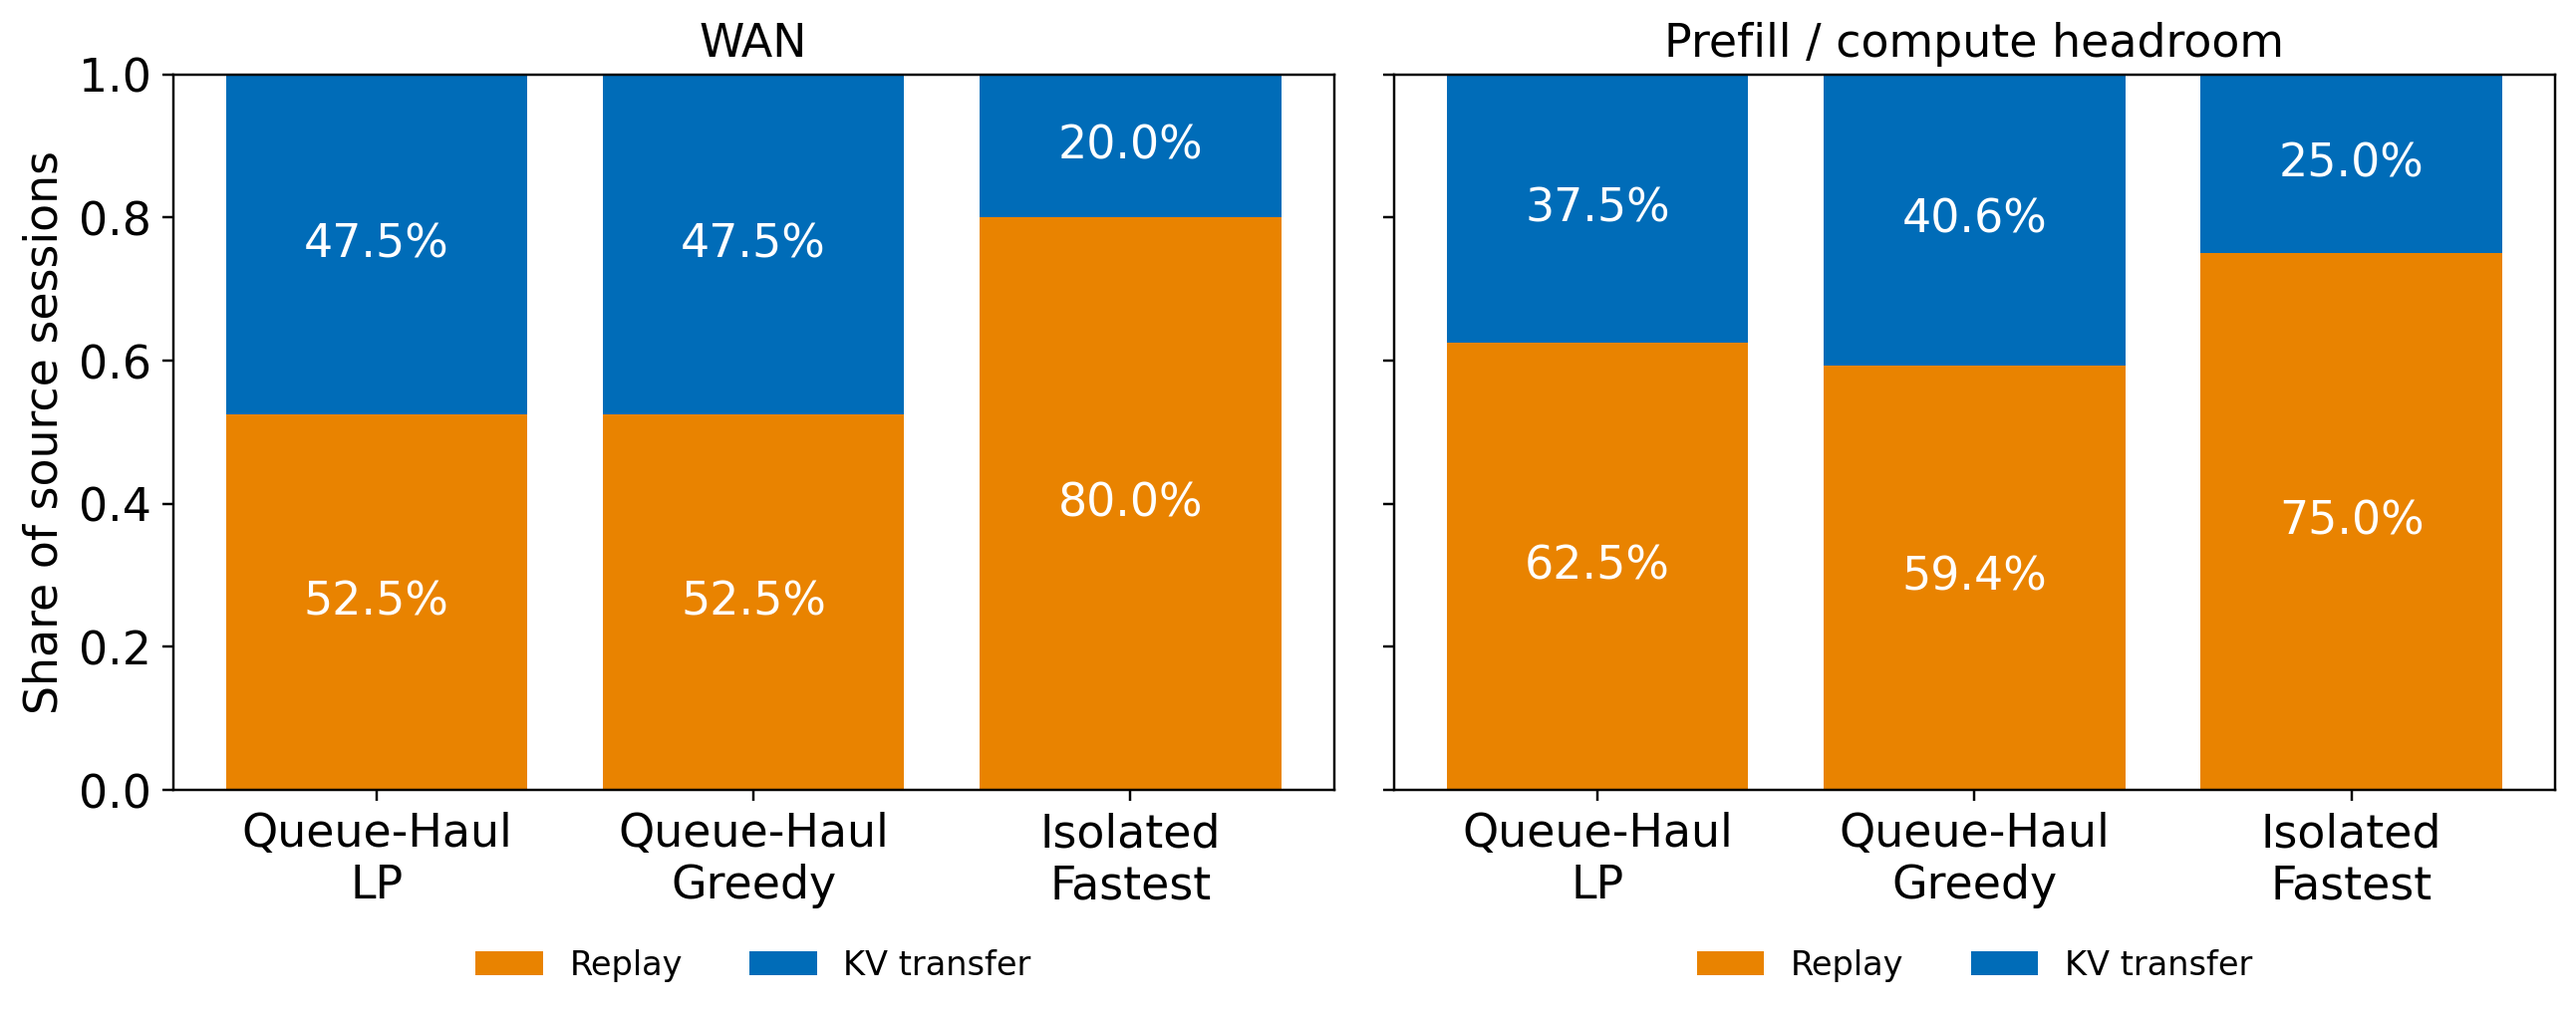
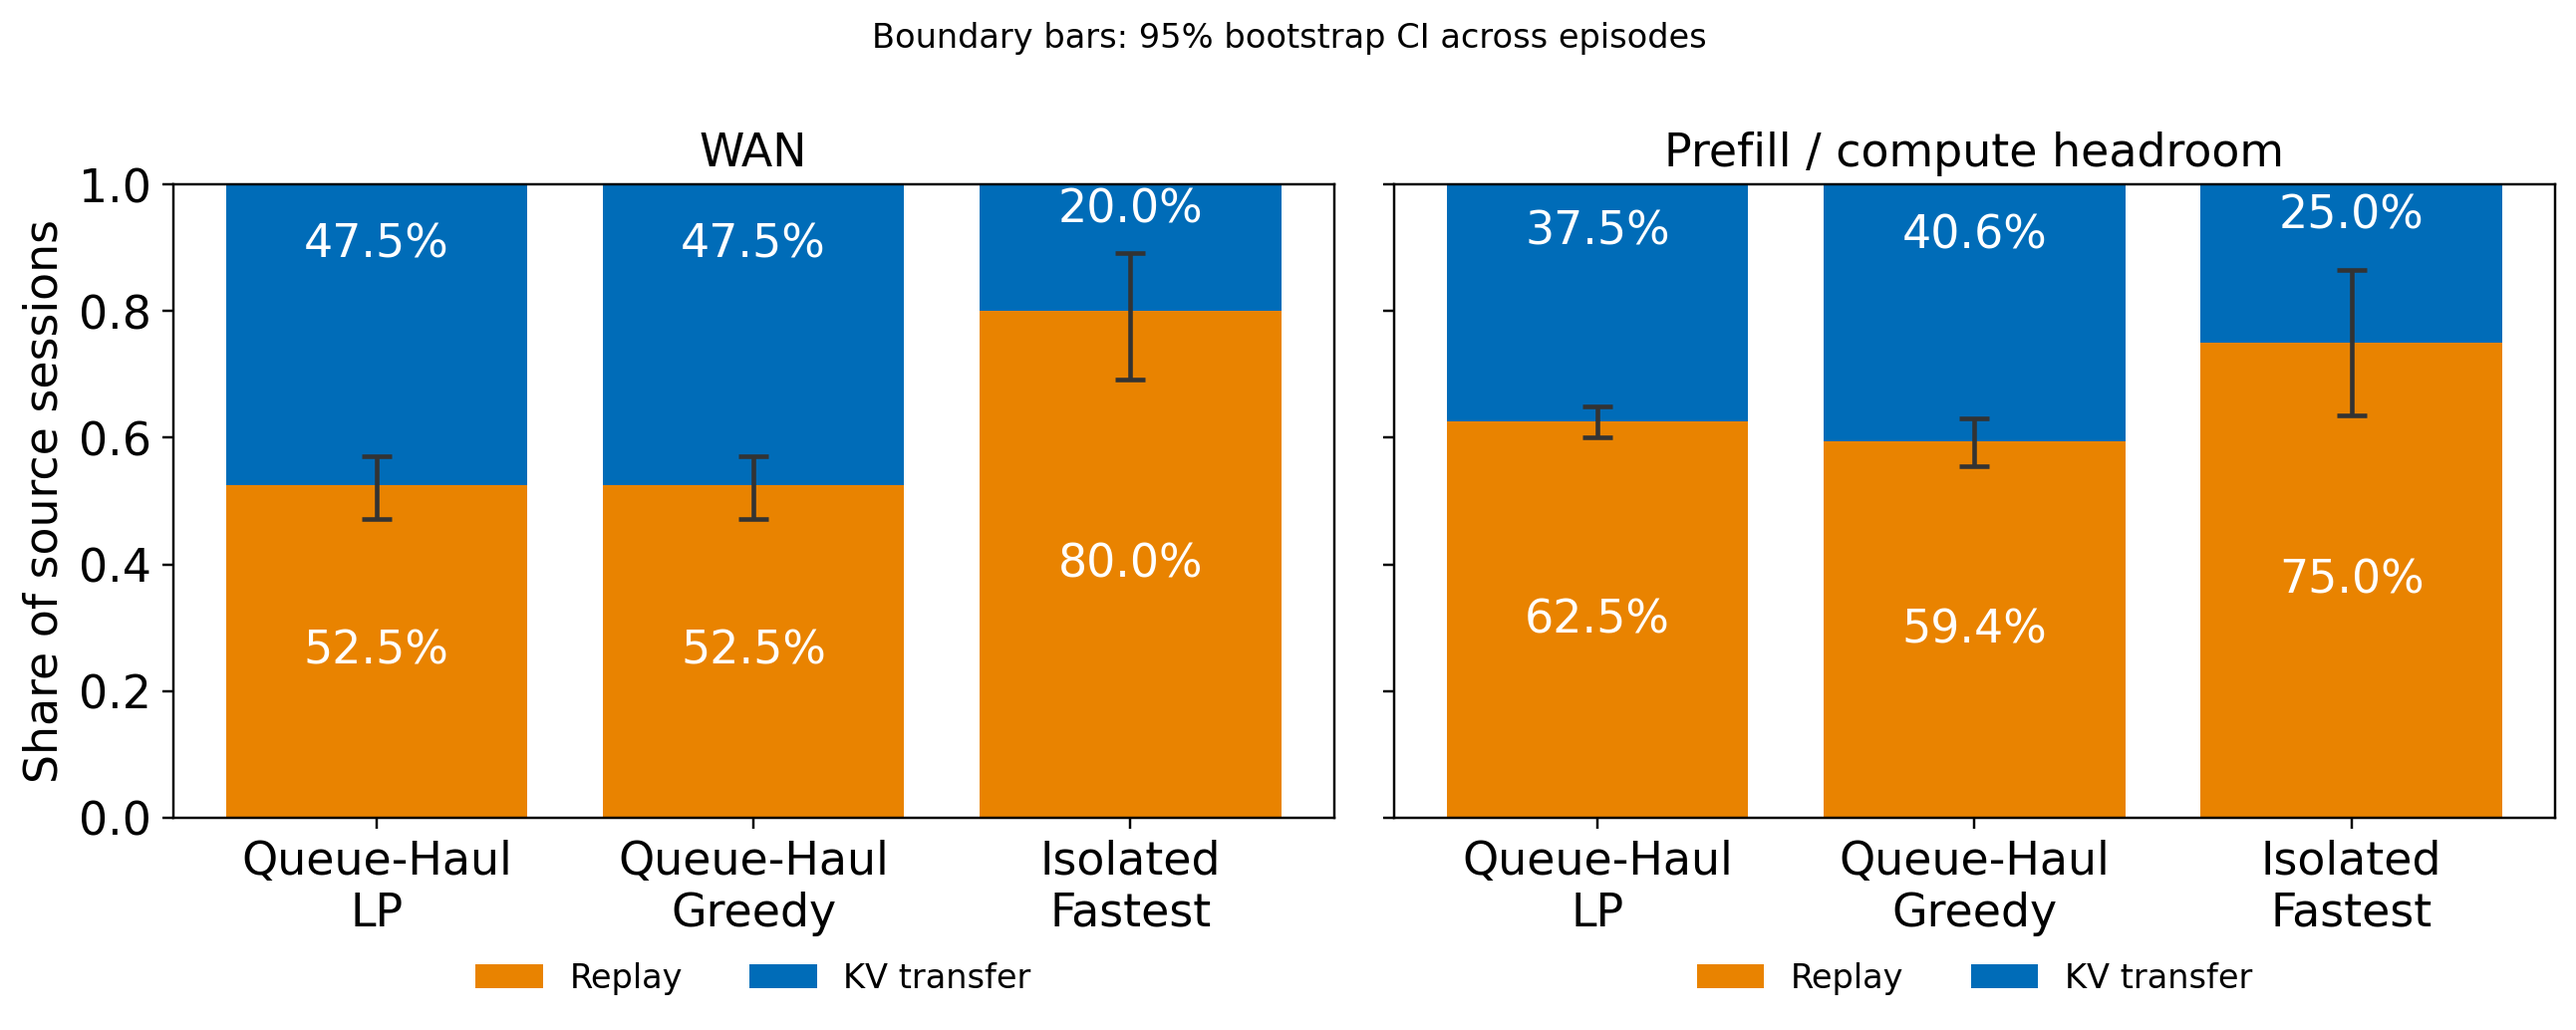
Add episode bootstrap confidence bars to action mix boundaries

diff --git a/agent-migrate/queue-haul/plot_wan_prefill_results.py b/agent-migrate/queue-haul/plot_wan_prefill_results.py
@@ -44,6 +44,15 @@ def pooled(rows, campaign, policy):
     return np.r_[0, sorted(events)], np.arange(len(events) + 1) / len(episodes), counts, total
 
 
+def replay_interval(rows, campaign, policy):
+    shares = np.array([sum(d["action"] == "replay" for d in json.loads(r["decisions"])) / 8
+                       for r in rows if r["campaign"] == campaign and r["policy"] == policy])
+    if len(shares) < 2:
+        raise ValueError("replay confidence interval needs at least two episodes")
+    means = np.random.default_rng(0).choice(shares, (10000, len(shares))).mean(axis=1)
+    return np.quantile(means, [.025, .975])
+
+
 def save(fig, out):
     fig.tight_layout()
     for suffix in ("png", "pdf"):
@@ -95,12 +104,17 @@ def plot(source, out):
                    color=plot_style.ACTION_COLORS[action])
             for i, share in enumerate(shares):
                 if share:
-                    ax.text(i, bottom[i] + share / 2, f"{share:.1%}", ha="center", va="center", color="white")
+                    ax.text(i, bottom[i] + share * (.8 if action == "kv_transfer" else .5), f"{share:.1%}", ha="center", va="center", color="white")
             bottom += shares
+        boundaries = np.array([groups[campaign, p][2]["replay"] / groups[campaign, p][3] for p in policies])
+        intervals = np.array([replay_interval(rows, campaign, p) for p in policies]).T
+        ax.errorbar(range(3), boundaries, yerr=np.vstack((boundaries - intervals[0], intervals[1] - boundaries)),
+                    fmt="none", ecolor="#333333", elinewidth=1.5, capsize=5, capthick=1.5)
         ax.set(xticks=range(3), xticklabels=["\n".join(plot_style.POLICY_NAMES[STYLE_IDS[p]].rsplit(" ", 1))
                                            for p in policies], ylim=(0, 1), title=title)
         ax.legend(loc="upper center", bbox_to_anchor=(.5, -.18), ncol=3, frameon=False)
     axes[0].set_ylabel("Share of source sessions")
+    fig.suptitle("Boundary bars: 95% bootstrap CI across episodes", fontsize=plot_style.LEGEND_FONT_SIZE)
     save(fig, out / "pooled_action_mix")
     with (out / "pooled_summary.csv").open("w") as stream:
         writer = csv.DictWriter(stream, fieldnames=summaries[0], lineterminator="\n")

diff --git a/agent-migrate/queue-haul/tests/test_wan_prefill_results.py b/agent-migrate/queue-haul/tests/test_wan_prefill_results.py
@@ -3,7 +3,7 @@ import json
 import numpy as np
 import pytest
 
-from plot_wan_prefill_results import pooled
+from plot_wan_prefill_results import pooled, replay_interval
 
 
 def test_episode_ecdf_uses_last_completion_and_retains_incomplete_episodes():
@@ -20,3 +20,13 @@ def test_episode_ecdf_uses_last_completion_and_retains_incomplete_episodes():
     assert total == 32 and counts == dict(replay=31, not_selected=1)
     with pytest.raises(ValueError, match="missing episodes"):
         pooled(rows, "prefill", "greedy")
+
+
+def test_action_interval_resamples_episodes_and_preserves_constant_mix():
+    def row(replays):
+        return dict(campaign="wan", policy="greedy", decisions=json.dumps([
+            dict(action="replay" if i < replays else "kv_transfer") for i in range(8)]))
+    np.testing.assert_array_equal(replay_interval([row(4)] * 13, "wan", "greedy"), [.5, .5])
+    lo, hi = replay_interval([row(0)] * 13 + [row(8)] * 13, "wan", "greedy")
+    assert 0 <= lo < .5 < hi <= 1
+    assert hi - lo > .25

diff --git a/agent-migrate/queue-haul/README.md b/agent-migrate/queue-haul/README.md
@@ -2677,5 +2677,8 @@ rates (including zero load). Each case has 13 repeats per policy. The
 `pooled_action_mix` figure has separate WAN and prefill panels, pooling cases
 within each class: 520 WAN and 416 prefill source sessions per policy. `per_session_greedy` is displayed as Isolated
 Fastest because it picks each session's fastest isolated action. Unselected
-sessions remain visible as a separate action category if present.
+sessions remain visible as a separate action category if present. Boundary error
+bars show percentile 95% bootstrap confidence intervals for mean replay share,
+using 10,000 whole-episode resamples within each class/policy (seed 0). They
+include variation across pooled cases, not just repeat noise within a case.
 These are descriptive episode ECDFs, not evidence of a causal prefill transition.
